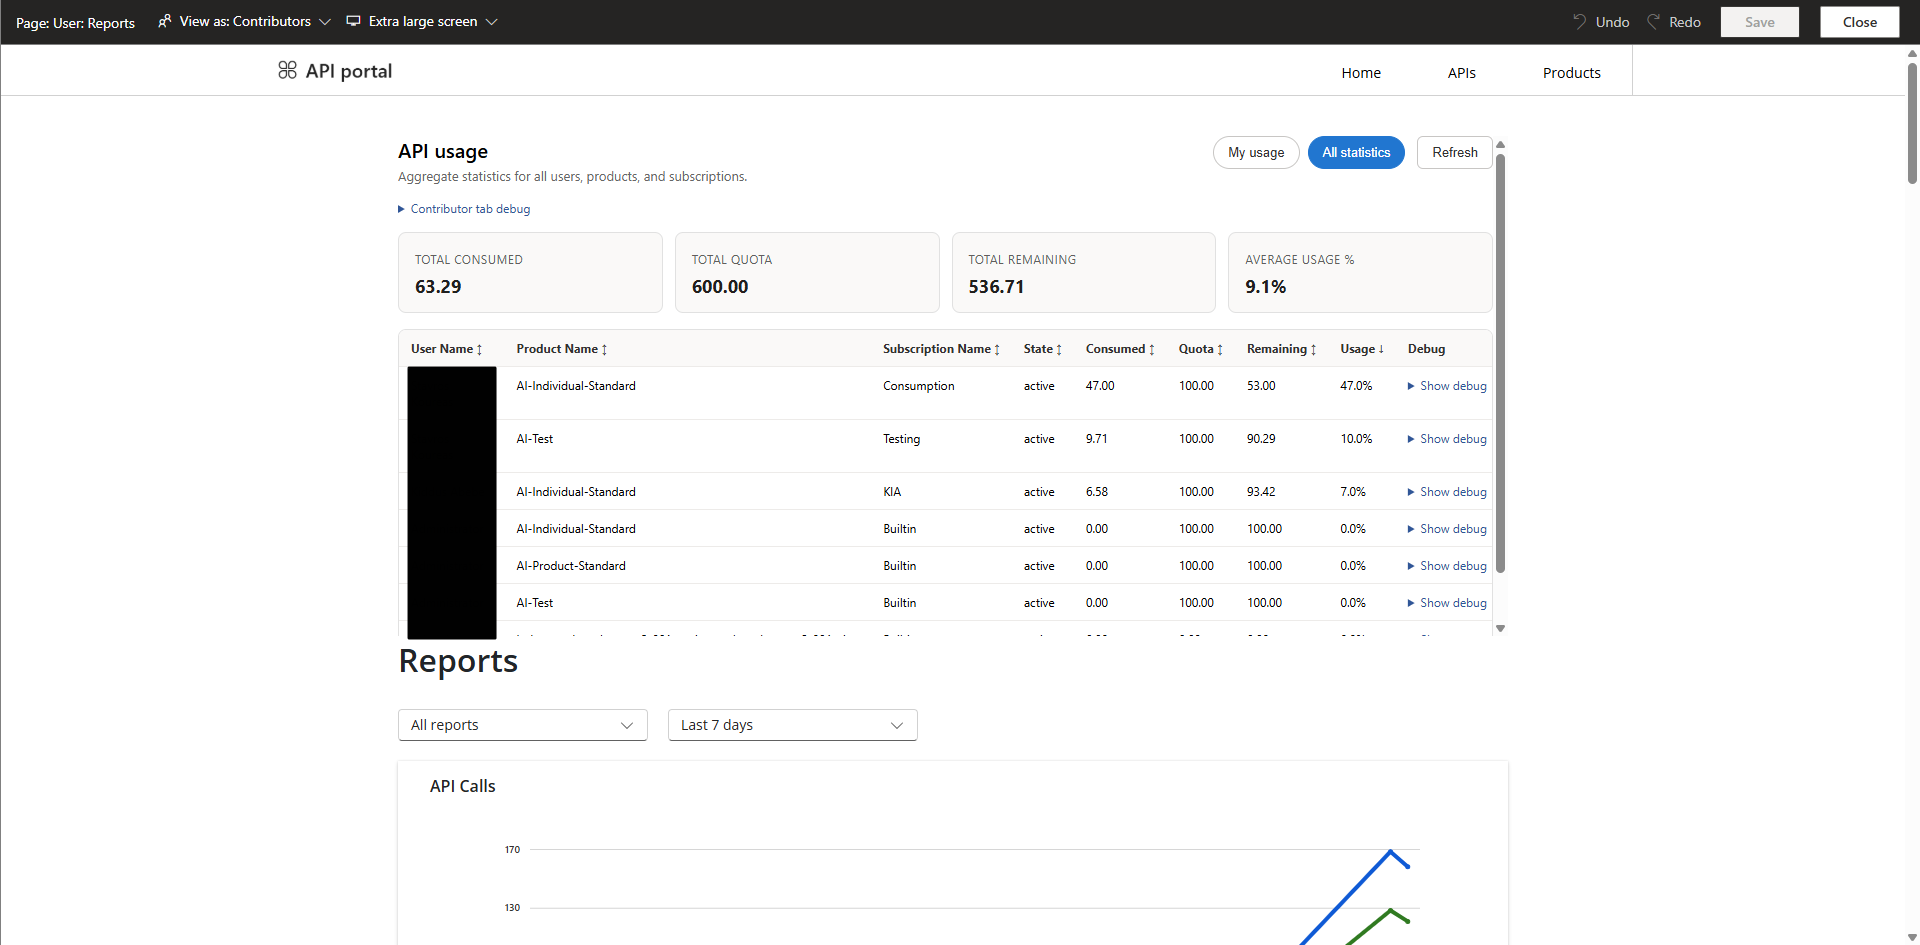
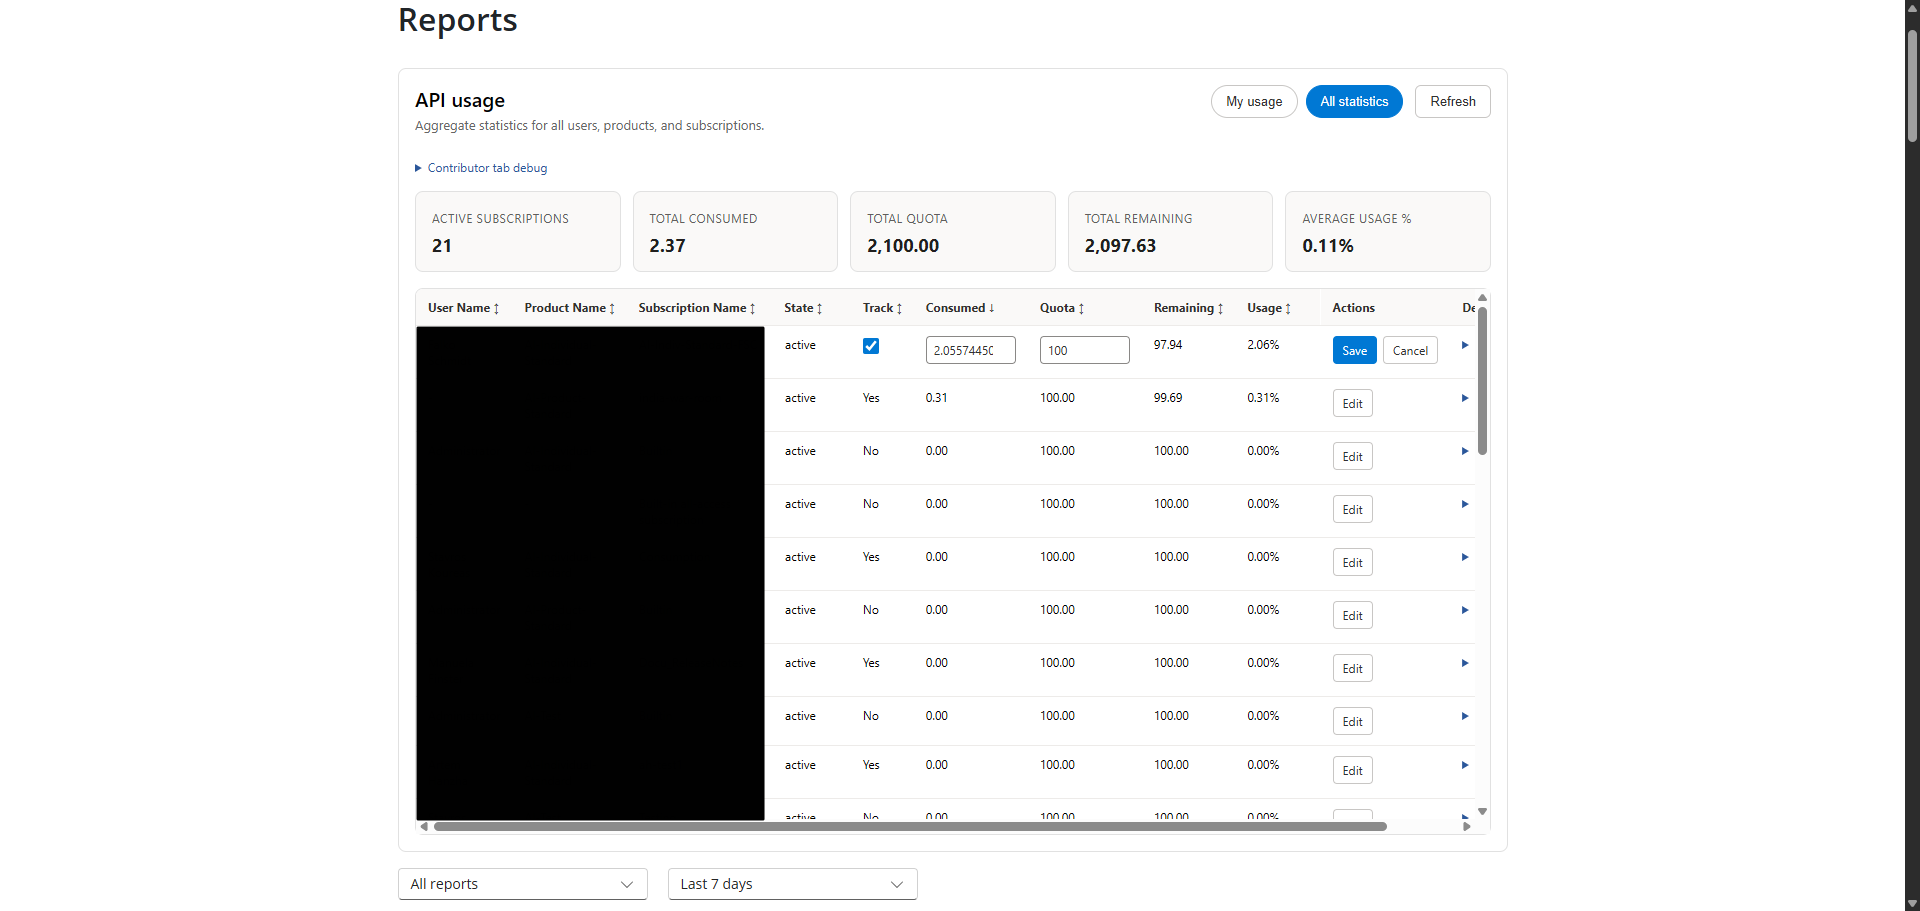
Improved screenshot for widget with contributor permission

diff --git a/README.md b/README.md
@@ -2,7 +2,7 @@
 language: ["en"]
 tags: ["ai", "foundry", "apim", "azure", "policy", "control", "report", "budget"]
 license: "apache-2.0"
-version: v0.0.25
+version: v0.0.26
 ---
 
 # 💸 Azure AI Gateway Cost Mechanism
